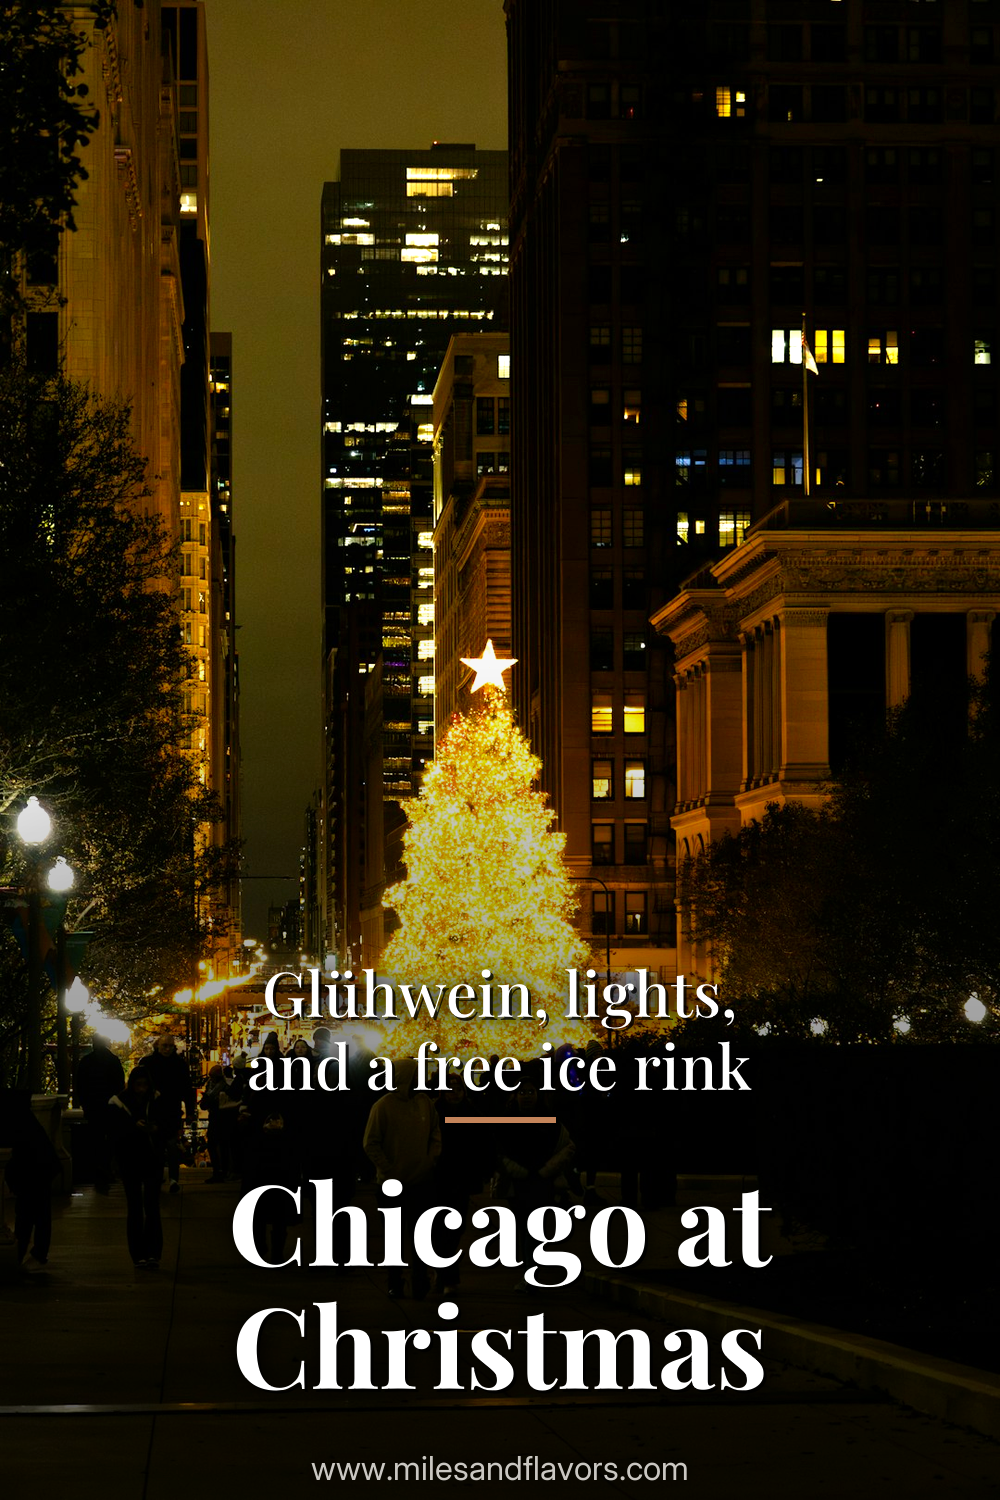
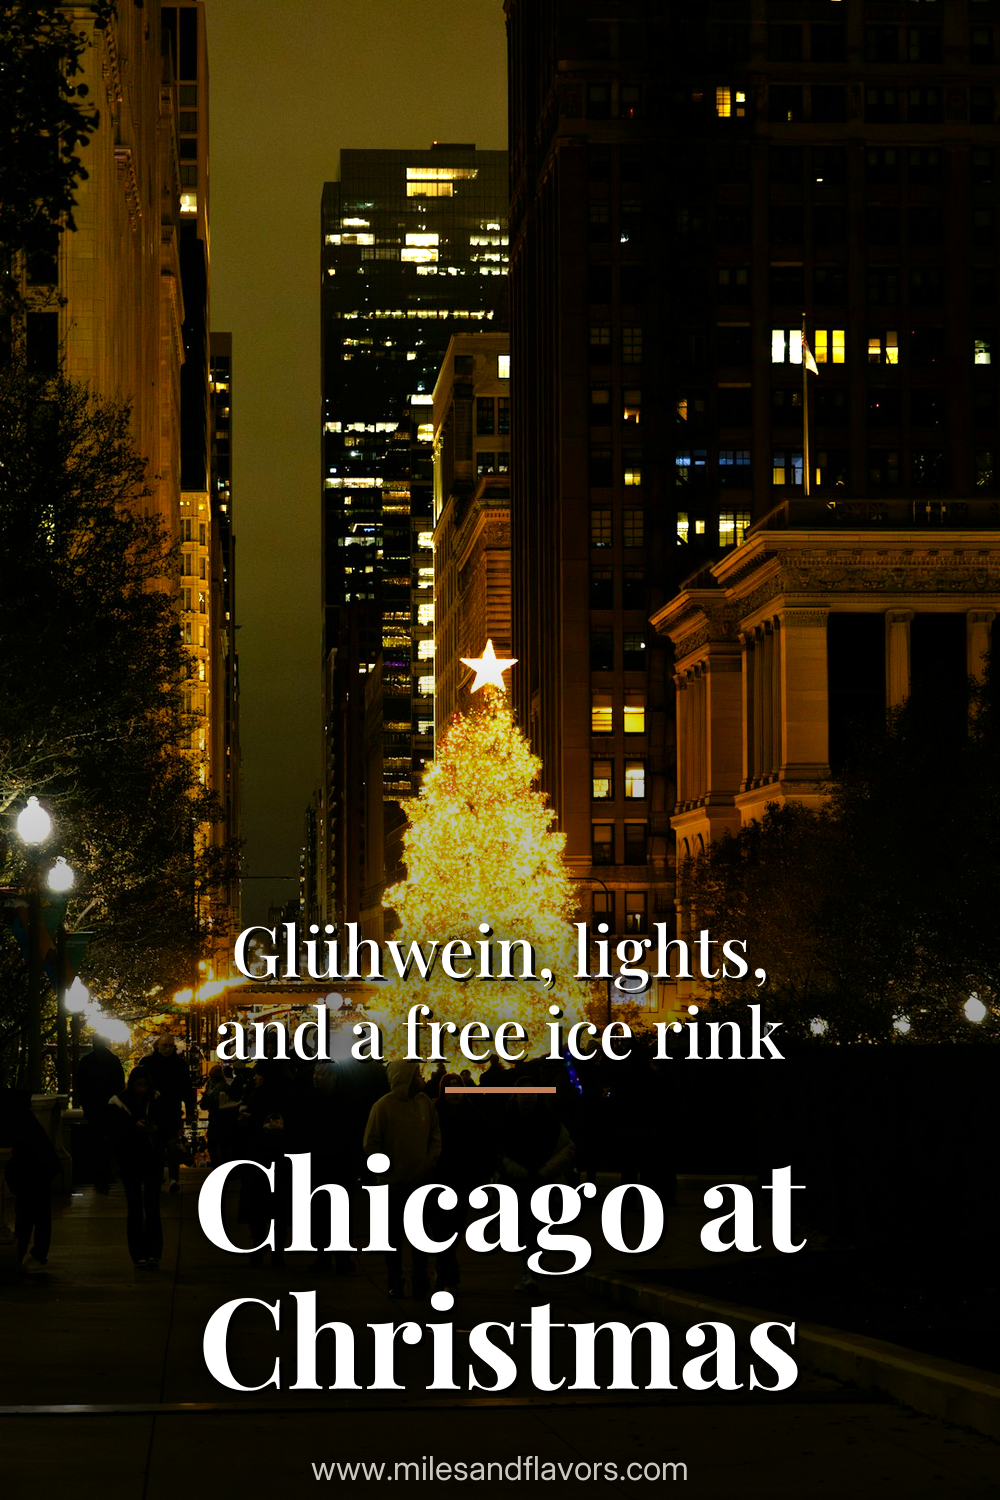
Increase pin text size and legibility globally; move Chicago Hop-On Hop-Off text off the bus into clear sky
- render.py: bold title 112px->126px, subtitle 62px->70px (min floor 58->64), stronger drop-shadow (offset 3->4px, alpha ~200/215->235) and stronger glow blur (11->15px) — applies to all future renders
- Chicago Hop-On Hop-Off: forced zone Bottom->Top, since the bus itself was being covered by the text while the sky above was empty
- Re-rendered all 14 pins so far with the new sizing/shadow

Changed region(s): [[0.186, 0.6133, 0.806, 0.9507]]

diff --git a/render.py b/render.py
@@ -286,16 +286,16 @@ def render_hybrid_pin(bold, light, photos, zone_override=None, overlay_alpha=90,
     # 2. Szöveg zóna: ha van Template override, azt használjuk; különben auto-detect
     zone = zone_override if zone_override else find_best_zone(raw_photo)
 
-    # 3. Betűméretek — nagyobb subtitle mint korábban
+    # 3. Betűméretek — 2026-08-18 user kérésre feljebb véve, jobb olvashatóságért
     dummy = ImageDraw.Draw(Image.new("RGBA", (W, H)))
     maxw = W - 100
-    t1, t2 = 112, 62          # t2 volt 50 → most 62 (nagyobb subtitle)
+    t1, t2 = 126, 70          # 112->126 bold, 62->70 subtitle
     while True:
         fb = font(PLAYFAIR, t1, 700)
         fl = font(PLAYFAIR, t2, 400)
         L1 = wrap(dummy, bold, fb, maxw)
         L2 = wrap(dummy, light, fl, maxw) if light else []
-        if (len(L1) <= 3 and len(L2) <= 2) or t1 <= 58:
+        if (len(L1) <= 3 and len(L2) <= 2) or t1 <= 64:
             break
         t1 = int(t1 * 0.92); t2 = int(t2 * 0.92)
 
@@ -350,9 +350,9 @@ def render_hybrid_pin(bold, light, photos, zone_override=None, overlay_alpha=90,
     # Subtitle / hook (SWA: kis szöveg a főcím FELETT)
     if light:
         for ln in L2:
-            # Árnyék a subtitle mögé — extra kontrasztért mobil nézeten
-            fd.text((W//2 + 3, y + 3), ln, font=font(PLAYFAIR, t2, 500),
-                    fill=(0, 0, 0, 200), anchor="ma")
+            # Árnyék a subtitle mögé — erősítve 2026-08-18 (user kérés: jobb olvashatóság)
+            fd.text((W//2 + 4, y + 4), ln, font=font(PLAYFAIR, t2, 500),
+                    fill=(0, 0, 0, 235), anchor="ma")
             fd.text((W//2, y), ln, font=font(PLAYFAIR, t2, 500),
                     fill=(*WHITE, 255), anchor="ma")
             y += lh2
@@ -364,10 +364,10 @@ def render_hybrid_pin(bold, light, photos, zone_override=None, overlay_alpha=90,
             fill=(*TERRA, 255))
         y += acc_h + acc_gap
 
-    # Főcím — nagy, domináns (drop shadow + szöveg)
+    # Főcím — nagy, domináns (drop shadow + szöveg) — árnyék erősítve 2026-08-18
     for ln in L1:
-        fd.text((W//2 + 3, y + 3), ln, font=font(PLAYFAIR, t1, 700),
-                fill=(0, 0, 0, 215), anchor="ma")
+        fd.text((W//2 + 4, y + 4), ln, font=font(PLAYFAIR, t1, 700),
+                fill=(0, 0, 0, 235), anchor="ma")
         fd.text((W//2, y), ln, font=font(PLAYFAIR, t1, 700),
                 fill=(*col_bold, 255), anchor="ma")
         y += lh1
@@ -376,10 +376,10 @@ def render_hybrid_pin(bold, light, photos, zone_override=None, overlay_alpha=90,
     fd.text((W//2, H - 52), "www.milesandflavors.com",
             font=font(INTER, 33, 600), fill=(*col_light, 205), anchor="ma")
 
-    # Puha glowing árnyék az összes szöveg mögé (erősebb mint korábban)
+    # Puha glowing árnyék az összes szöveg mögé (erősítve 2026-08-18, user kérés)
     sh = Image.new("RGBA", (W, H), (0,0,0,0))
     sh.putalpha(fg.split()[3].point(lambda a: int(a * 1.0)))
-    sh = sh.filter(ImageFilter.GaussianBlur(11))
+    sh = sh.filter(ImageFilter.GaussianBlur(15))
     base = Image.alpha_composite(base, sh)
 
     base = Image.alpha_composite(base, fg)
